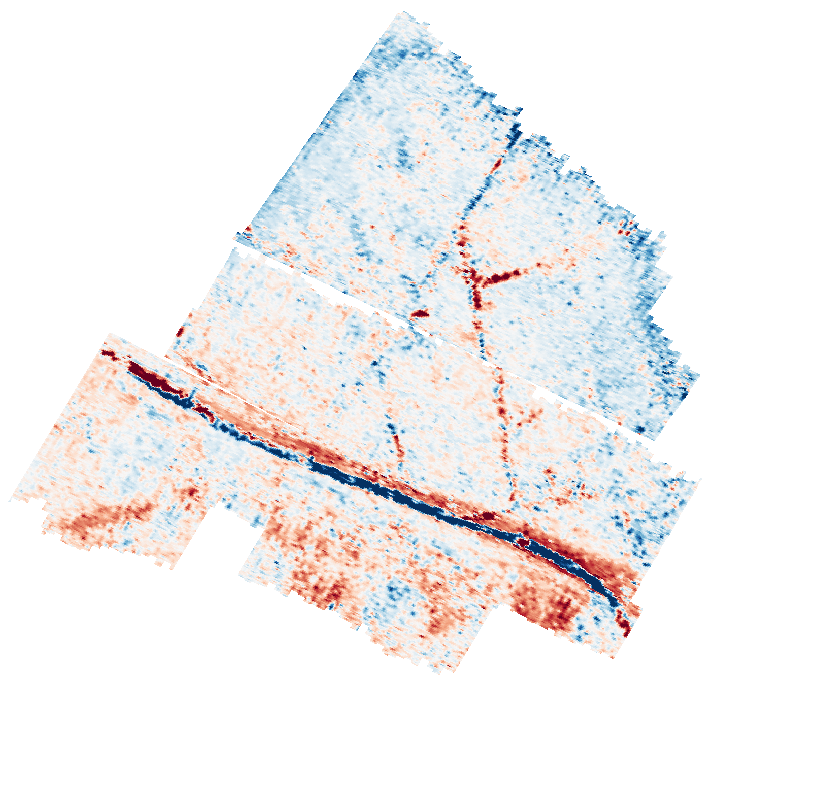
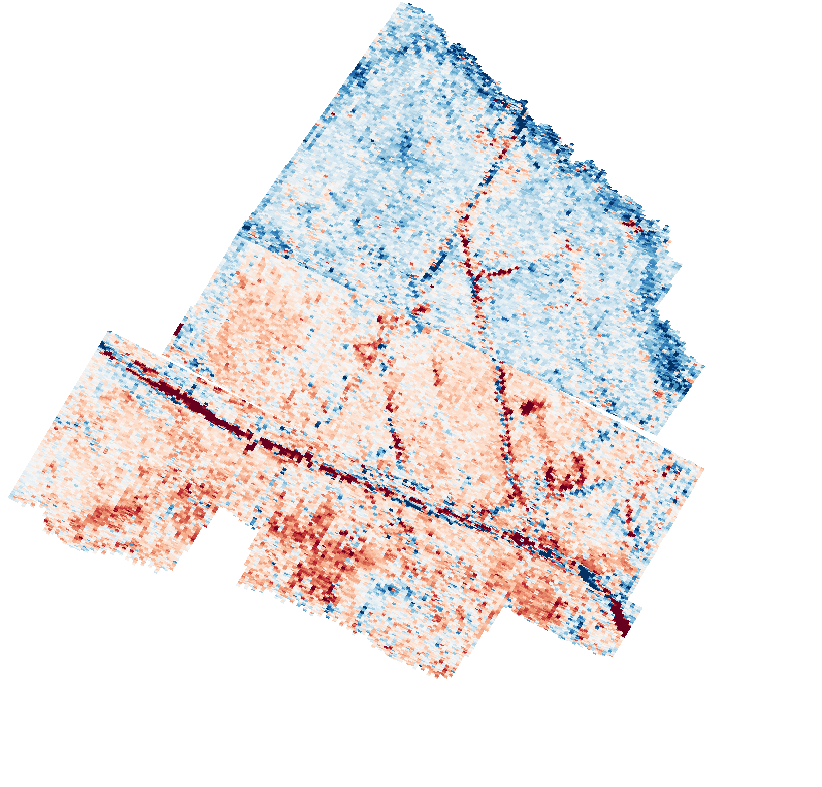
udpate

Changed region(s): [[0.0, 0.0, 0.8516, 0.8844]]

diff --git a/public/map.html b/public/map.html
@@ -51,7 +51,7 @@
 
   <!-- Main navbar -->
   <nav class="navbar navbar-expand-lg navbar-light bg-light justify-content-center">
-    <a class="navbar-brand" href="index.html">
+    <a class="navbar-brand" href="8hIy35hT2dixO91GyeUXks.html">
       <img src="images/btc-logo.png" height=40px>
       <img src="images/lu-logo.png" height=30px>
       Beyond the Castle
@@ -67,7 +67,7 @@
         <li class="nav-item active">
           <a class="nav-link" href="methods.html">Methods</a>
         </li><li class="nav-item active">
-          <a class="nav-link" href="index.html">About</a>
+          <a class="nav-link" href="8hIy35hT2dixO91GyeUXks.html">About</a>
         </li>
       </ul>
     </div>
@@ -97,40 +97,6 @@
     </button>
   </div>
 
-  <!-- local nav bar -->
-  <!-- <div class="btn-group btn-group-toggle flex-sm-row flex-nowrap align-content-center" data-toggle="buttons">
-    <label class="btn btn-light">
-      <input type="radio" name="options" id="option1" autocomplte="off" onchange="showRes(this)">
-        <img src="images/res.svg" height=50px>
-        Res
-      </input>
-    </label>
-    <label class="btn btn-light">
-      <input type="radio" name="options" id="option2" autocomplete="off" onchange="showMag(this)">
-        <img src="images/mag.svg" height=50px>
-        Mag
-      </input>
-    </label>
-    <label class="btn btn-light active">
-      <input type="checkbox" name="options" id="option3" autocomplete="off" onchange="showEMI(this)">
-        <img src="images/emi.svg" height=50px>
-        EMI
-      </input>
-    </label>
-    <label class="btn btn-light active">
-      <input type="checkbox" name="options" id="option4" autocomplete="off" onchange="showGPR(this)">
-        <img src="images/gpr.svg" height=50px>
-        GPR
-      </input>
-    </label>
-    <label class="btn btn-light active">
-      <input type="checkbox" name="options" id="option5" autocomplete="off" onchange="locateMe()">
-        <img src="images/location.svg" height=50px>
-        Me
-      </input>
-    </label>
-  </div> -->
-
 
     <!-- <div class="slidecontainer">
       <input type="range" min="1" max="100" value="50" class="slider" id="myRange">
@@ -143,14 +109,7 @@
         </div>
       </div>
     </div>
-<!--
-TODO update the interface:
-- add information and picture about each method
-- add hamburger menu for phone
-<div class="slidecontainer">
-  <input type="range" min="1" max="100" value="50" class="slider" id="myRange">
-</div>
--->
+
 
 <script>
   var mymap = L.map('mapid').setView([54.052607, -2.807209], 16);
@@ -186,7 +145,7 @@ const boundAerial = [[54.0543317, -2.8109869], [54.0494693, -2.8027537]];
 // GPR layers
 var layerQM_gpr = L.imageOverlay('data/qm_gpr.png', boundQM_gpr);
 var layerGA_gpr = L.imageOverlay('data/ga_gpr.png', boundGA_gpr);
-var layerBH_gpr = L.imageOverlay('data/bh_gpr.png', boundBH_gpr);
+var layerBH_gpr = L.imageOverlay('data/bh_gpr2.png', boundBH_gpr);
 var layers_gpr = [layerQM_gpr, layerGA_gpr, layerBH_gpr];
 
 // EMI layers

diff --git a/public/8hIy35hT2dixO91GyeUXks.html b/public/8hIy35hT2dixO91GyeUXks.html
@@ -41,7 +41,7 @@
 <body>
   <!-- Main navbar -->
   <nav class="navbar navbar-expand-lg navbar-light bg-light justify-content-center">
-    <a class="navbar-brand" href="index.html">
+    <a class="navbar-brand" href="8hIy35hT2dixO91GyeUXks.html">
       <img src="images/btc-logo.png" height=40px>
       <img src="images/lu-logo.png" height=30px>
       Beyond the Castle
@@ -57,7 +57,7 @@
         <li class="nav-item active">
           <a class="nav-link" href="methods.html">Methods</a>
         </li><li class="nav-item active">
-          <a class="nav-link" href="index.html">About</a>
+          <a class="nav-link" href="8hIy35hT2dixO91GyeUXks.html">About</a>
         </li>
       </ul>
     </div>

diff --git a/public/methods.html b/public/methods.html
@@ -41,7 +41,7 @@
 <body>
   <!-- Main navbar -->
   <nav class="navbar navbar-expand-lg navbar-light bg-light justify-content-center">
-    <a class="navbar-brand" href="index.html">
+    <a class="navbar-brand" href="8hIy35hT2dixO91GyeUXks.html">
       <img src="images/btc-logo.png" height=40px>
       <img src="images/lu-logo.png" height=30px>
       Beyond the Castle
@@ -57,7 +57,7 @@
         <li class="nav-item active">
           <a class="nav-link" href="methods.html">Methods</a>
         </li><li class="nav-item active">
-          <a class="nav-link" href="index.html">About</a>
+          <a class="nav-link" href="8hIy35hT2dixO91GyeUXks.html">About</a>
         </li>
       </ul>
     </div>
